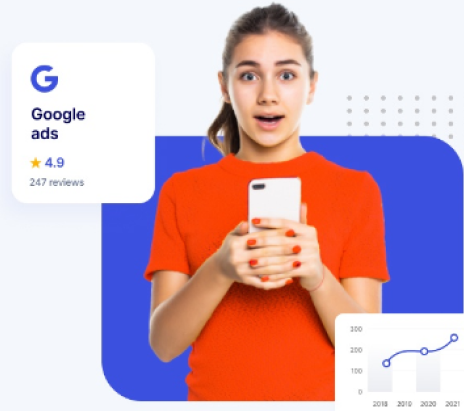
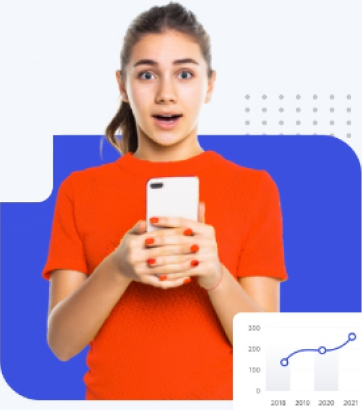
адаптив our solutions

diff --git a/style.css b/style.css
@@ -387,8 +387,9 @@ header{
 }
 .our-solutions-block{
     padding: 30px;
-    max-width: 15%;
+    min-width: 15%;
     border-radius: 20px;
+    max-width: 15%;
 }
 .our-solutions-block h2{
     color:#F5F5F5;
@@ -401,6 +402,21 @@ header{
 .our-solutions-block p{
     color: #ffffff9a;
 }
+.our-solutions-content-img{
+    position: relative;
+}
+.our-solutions-content-img-statistic{
+    position: absolute;
+    background: #FFFFFF;
+    padding: 15px;
+    border-radius: 14px;
+    top: 8%;
+    left: -19%;
+}
+.our-solutions-content-img-statistic h3{
+    margin-top: 0.5em;
+    margin-bottom: 0.1em;
+}
 #block1{
     background: #3B50DF;
 }
@@ -412,6 +428,16 @@ header{
 }
 #block4{
     background: #627093;
+}
+.our-solutions-blocks::-webkit-scrollbar{
+    height: 5px;
+  }
+.our-solutions-blocks::-webkit-scrollbar-track{
+    background:  rgba(50, 53, 60, 1);
+    height: 5px;
+}
+.our-solutions-blocks::-webkit-scrollbar-thumb{
+    background: url(svg/scrollbar.svg) no-repeat center;
 }
 /* pricing plan */
 .pricing-plan{
@@ -775,6 +801,27 @@ header{
         bottom: -1%;
         right: -4%;
     }
+    /* our solutions */
+    .our-solutions-content{
+        flex-direction: column;
+        align-items: center;
+        
+    }
+    .our-solutions-content-txt{
+        max-width: 50%;
+        text-align: center;
+        margin-bottom: 30px;
+        margin-right: 0;
+    }
+    .our-solutions-block{
+        margin: 0 5%;
+    }
+    .our-solutions-blocks{
+        min-width: 100%;
+        overflow-y: hidden;
+        overflow-x: auto;
+        padding-bottom: 30px;
+    }
 }
 @media screen and (max-width:992px){
     /* header */
@@ -858,6 +905,11 @@ header{
         margin-left: 0;
         left: 0;
     }
+    /*our solutions */
+    .our-solutions-content-img-statistic{
+        top: 14%;
+        left: -11%;
+    }
 }
 @media screen and (max-width: 576px){
     /* header */
@@ -902,5 +954,11 @@ header{
     .about-us-img-statistic {
         bottom: 1%;
         right: -4%;
+    }
+    /*our solutions*/
+    .our-solutions-block {
+        padding: 22px;
+        min-width: 28%;
+        max-width: 28%;
     }
 }

diff --git a/index.html b/index.html
@@ -117,6 +117,12 @@
                     </div>
                     <div class="our-solutions-content-img">
                         <img src="img/girl.png" alt="girl">
+                        <div class="our-solutions-content-img-statistic">
+                            <img src="img/google.png" alt="google">
+                            <h3>Google <br> ads</h3>
+                            <h3><img src="img/star.png" alt="star">4.9</h3>
+                            <p>247 reviews</p>
+                        </div>
                     </div>
                 </div>
                 <div class="our-solutions-blocks">
